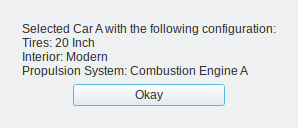
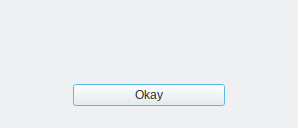
adds rendering of chosen car-configuration to car-configurator popup

Changed region(s): [[0.0604, 0.1875, 0.9362, 0.375], [0.0604, 0.4062, 0.8456, 0.625]]

diff --git a/naturalnets/environments/app/main_window_pages/car_configurator.py b/naturalnets/environments/app/main_window_pages/car_configurator.py
@@ -6,7 +6,7 @@ from naturalnets.environments.app.bounding_box import BoundingBox
 from naturalnets.environments.app.enums import Car
 from naturalnets.environments.app.constants import IMAGES_PATH, MAIN_PAGE_AREA_BB
 from naturalnets.environments.app.page import Page
-from naturalnets.environments.app.utils import render_onto_bb
+from naturalnets.environments.app.utils import put_text, render_onto_bb
 from naturalnets.environments.app.widgets.button import Button
 from naturalnets.environments.app.widgets.dropdown import Dropdown, DropdownItem
 
@@ -222,6 +222,7 @@ class CarConfiguratorPopup(Page):
     """
     STATE_LEN = 1
     BOUNDING_BOX = BoundingBox(75, 160, 298, 128)
+    CONFIGURATION_TEXT_BB = BoundingBox(94, 167, 263, 73)
     IMG_PATH = IMAGES_PATH + "car_config_popup.png"
 
     OK_BUTTON_BB = BoundingBox(148, 244, 152, 22)
@@ -247,3 +248,17 @@ class CarConfiguratorPopup(Page):
     def is_open(self) -> bool:
         """Returns the opened-state of this popup."""
         return self.get_state()[0]
+
+    def render(self, img: np.ndarray):
+        img = super().render(img)
+        x, y, _, height = self.CONFIGURATION_TEXT_BB.get_as_tuple()
+        props = [f"Propulsion System: {self.car_configurator.prop_dropdown.get_current_value()}",
+            f"Interior: {self.car_configurator.interior_dropdown.get_current_value()}",
+            f"Tires: {self.car_configurator.tire_dropdown.get_current_value()}",
+            f"Car: {self.car_configurator.car_dropdown.get_current_value()}"]
+
+        space = 20
+        for i, prop in enumerate(props):
+            bottom_left_corner = (x, y + height - i*space)
+            put_text(img, prop, bottom_left_corner, 0.4)
+        return img
